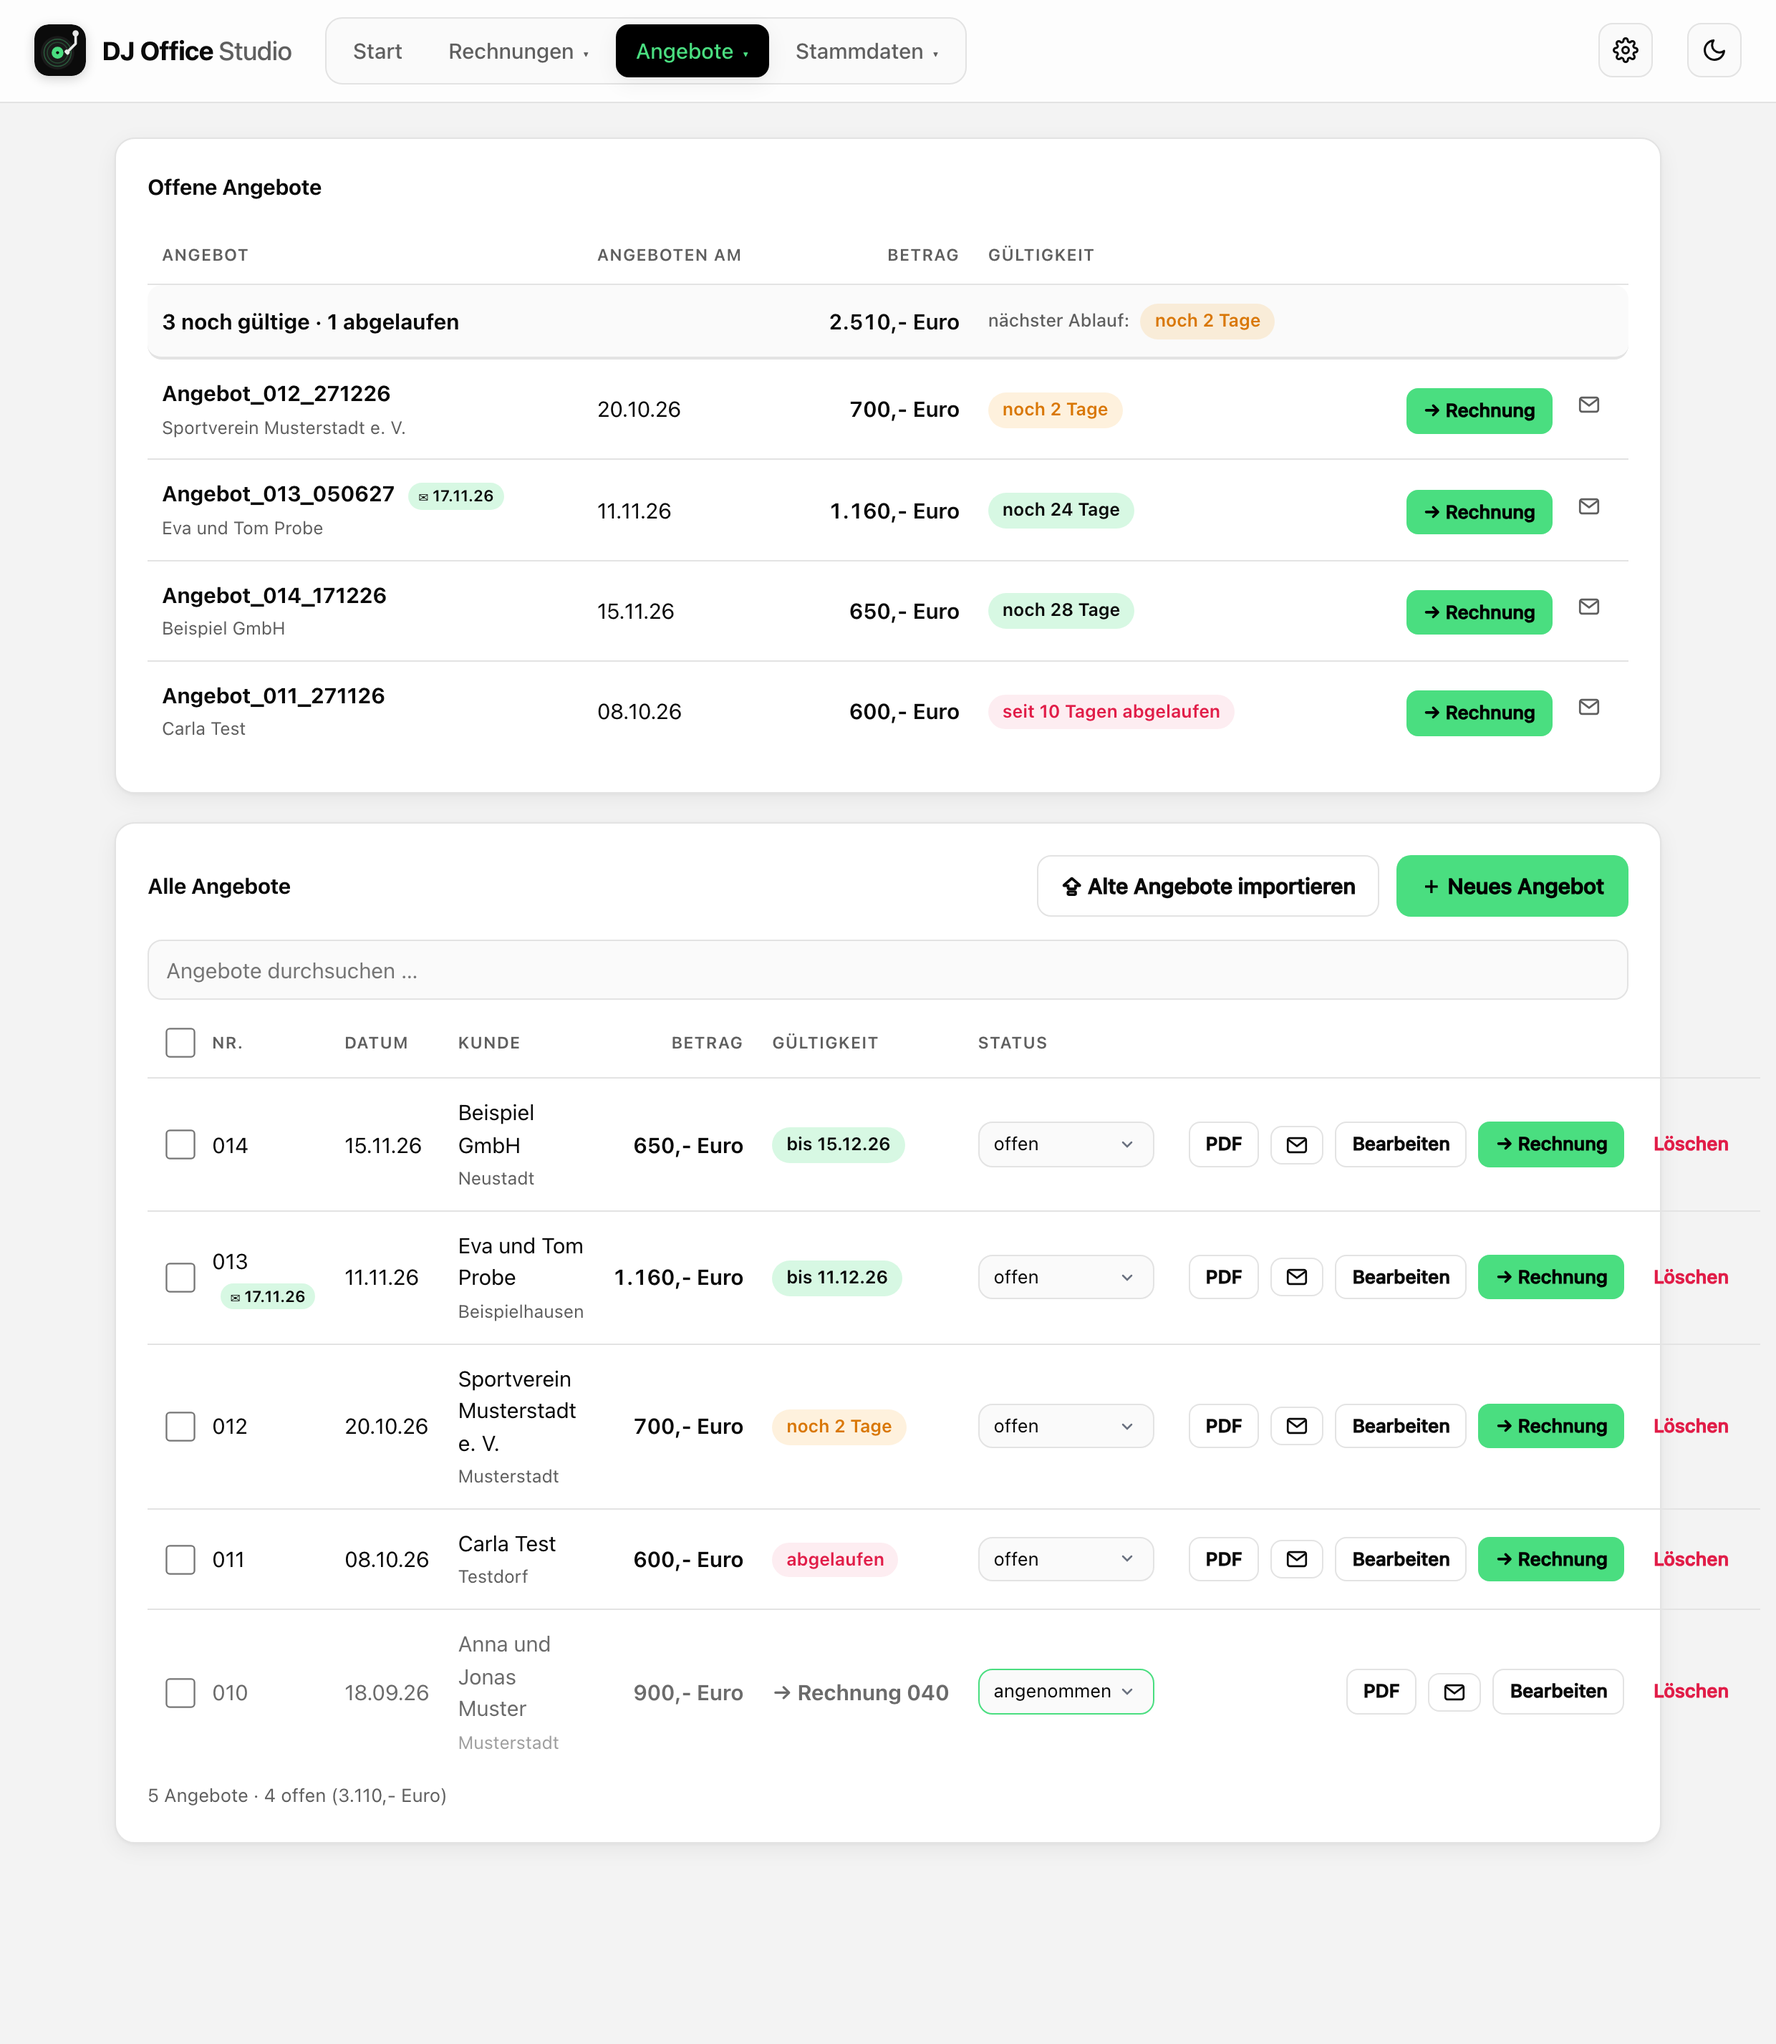
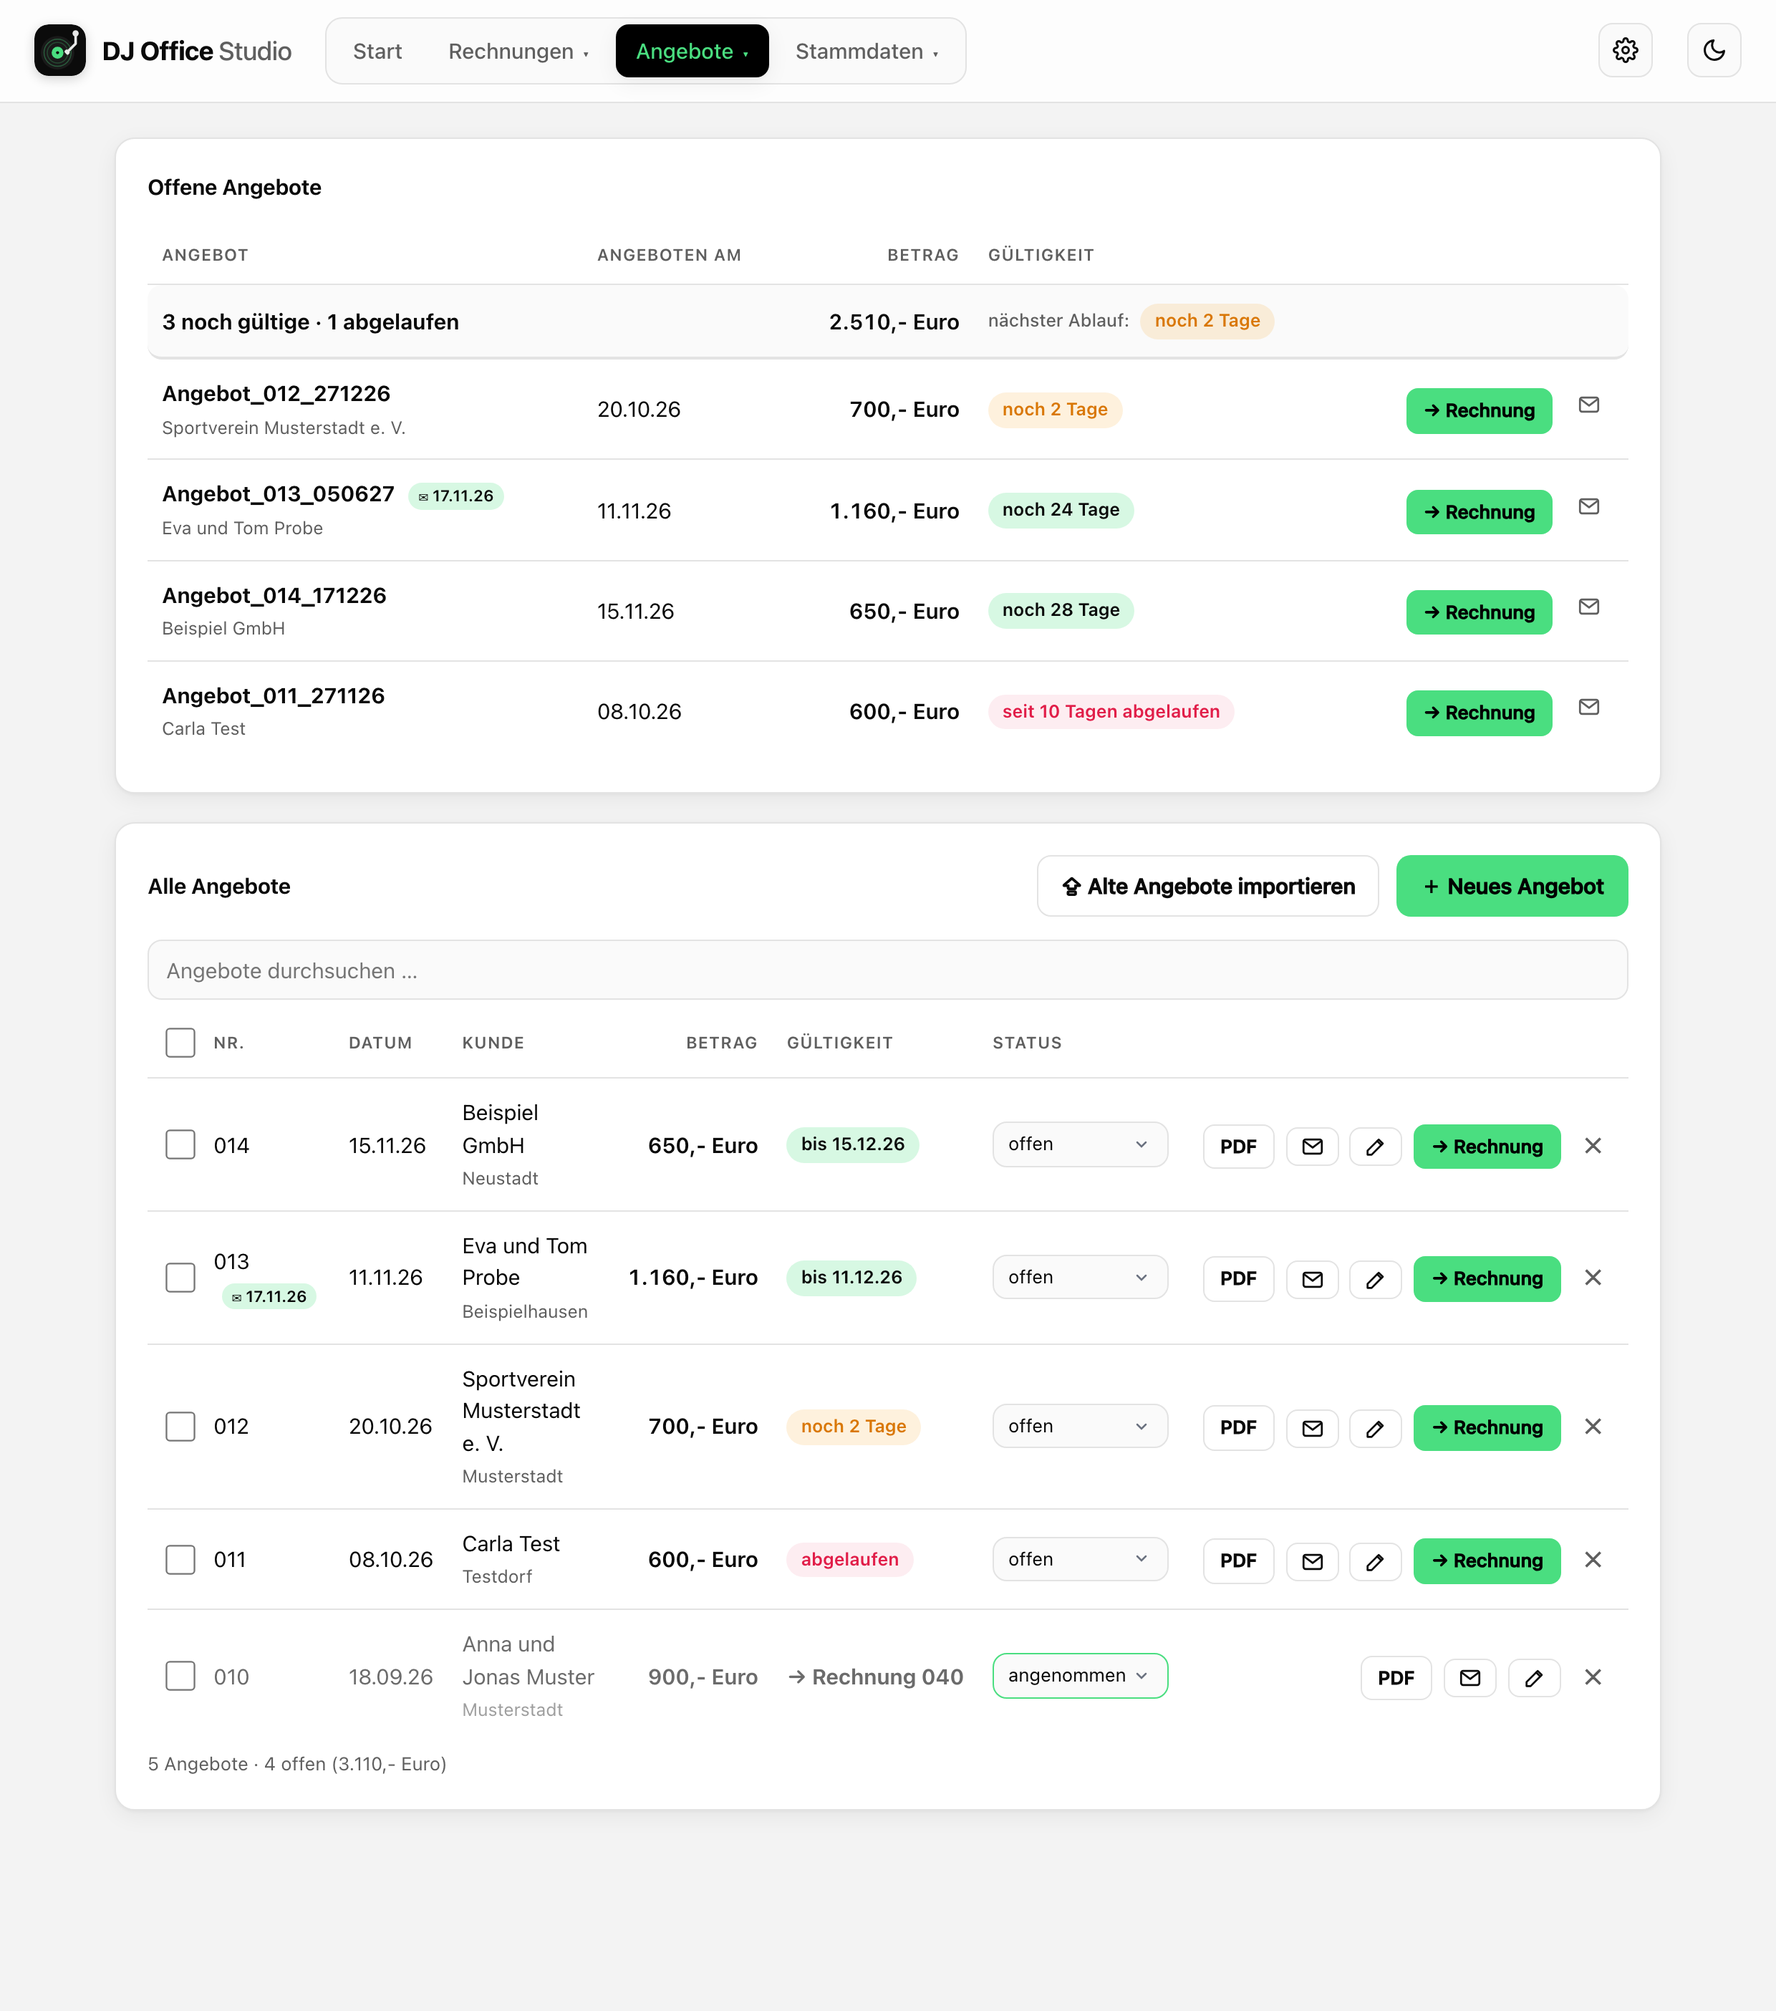
Angebotsliste: Zeile ragte über die Karte – Bearbeiten/Löschen als Symbol-Buttons, Version 0.14.1

diff --git a/rechnungen/app/static/app.js b/rechnungen/app/static/app.js
@@ -761,6 +761,7 @@ function fristBadge(z) {
 
 const ICON_MAIL = `<svg class="ico" viewBox="0 0 24 24" width="17" height="17" fill="none" stroke="currentColor" stroke-width="1.9" stroke-linecap="round" stroke-linejoin="round" aria-hidden="true"><rect x="3" y="5" width="18" height="14" rx="2"/><path d="m3.5 6.5 8.5 6.5 8.5-6.5"/></svg>`;
 
+const ICON_EDIT = `<svg class="ico" viewBox="0 0 24 24" width="17" height="17" fill="none" stroke="currentColor" stroke-width="1.9" stroke-linecap="round" stroke-linejoin="round" aria-hidden="true"><path d="M4 20h4L19 9l-4-4L4 16v4z"/><path d="m13.5 6.5 4 4"/></svg>`;
 const aktionen = (...welche) => welche.map(a => ({
   pdf: `<button class="small secondary" data-act="pdf">PDF</button>`,
   edit: `<button class="small secondary" data-act="edit">Bearbeiten</button>`,
@@ -1159,9 +1160,9 @@ function renderAngebote() {
       <td class="btns">
         <button class="small secondary" data-act="pdf">PDF</button>
         <button class="small secondary" data-act="senden" title="Per E-Mail senden, herunterladen oder teilen" aria-label="Senden">${ICON_MAIL}</button>
-        <button class="small secondary" data-act="edit">Bearbeiten</button>
+        <button class="small secondary" data-act="edit" title="Im Editor bearbeiten" aria-label="Bearbeiten">${ICON_EDIT}</button>
         ${a.rechnung_id ? "" : `<button class="small" data-act="rechnung" title="Rechnung aus diesem Angebot erstellen">→ Rechnung</button>`}
-        <button class="small danger" data-act="del">Löschen</button>
+        <button type="button" class="icon del" data-act="del" title="Angebot löschen" aria-label="Löschen">✕</button>
       </td>
     </tr>`).join("") ||
     `<tr><td colspan="8" class="hint">${q ? "Keine Treffer." : "Noch keine Angebote – mit „＋ Neues Angebot“ das erste schreiben."}</td></tr>`;

diff --git a/rechnungen/app/static/style.css b/rechnungen/app/static/style.css
@@ -435,8 +435,8 @@ a.mahn-chip:hover { text-decoration: underline; }
 /* ---------- E-Mail-Versand ---------- */
 .versand-chip { display: inline-block; margin-left: 6px; padding: 1px 7px; border-radius: 999px; font-size: 11px;
   font-weight: 600; white-space: nowrap; color: var(--text); background: var(--primary-soft); cursor: default; }
-button[data-act="senden"] svg.ico { display: block; }
-button.small[data-act="senden"] { padding: 4px 9px; vertical-align: middle; }
+button[data-act="senden"] svg.ico, button[data-act="edit"] svg.ico { display: block; }
+button.small[data-act="senden"], button.small[data-act="edit"]:has(svg) { padding: 4px 9px; vertical-align: middle; }
 button.icon.senden { color: var(--muted); }
 #versand-speichern-label { margin: -6px 0 14px; }
 #versand-kopie-label { margin: 0 0 8px; }

diff --git a/rechnungen/CHANGELOG.md b/rechnungen/CHANGELOG.md
@@ -2,6 +2,11 @@
 
 Alle Änderungen an DJ Office Studio. Neueste Version oben.
 
+## 0.14.1 – 2026-11-17
+
+### Behoben
+- Angebotsliste: Seit dem neuen Senden-Button ragte die Zeile über den Rand der Karte hinaus („Löschen“ stand außerhalb). „Bearbeiten“ und „Löschen“ sind jetzt kompakte Symbol-Buttons (✎ und ✕, mit Tooltip), Kundennamen haben wieder mehr Platz.
+
 ## 0.14.0 – 2026-11-17
 
 ### Neu
